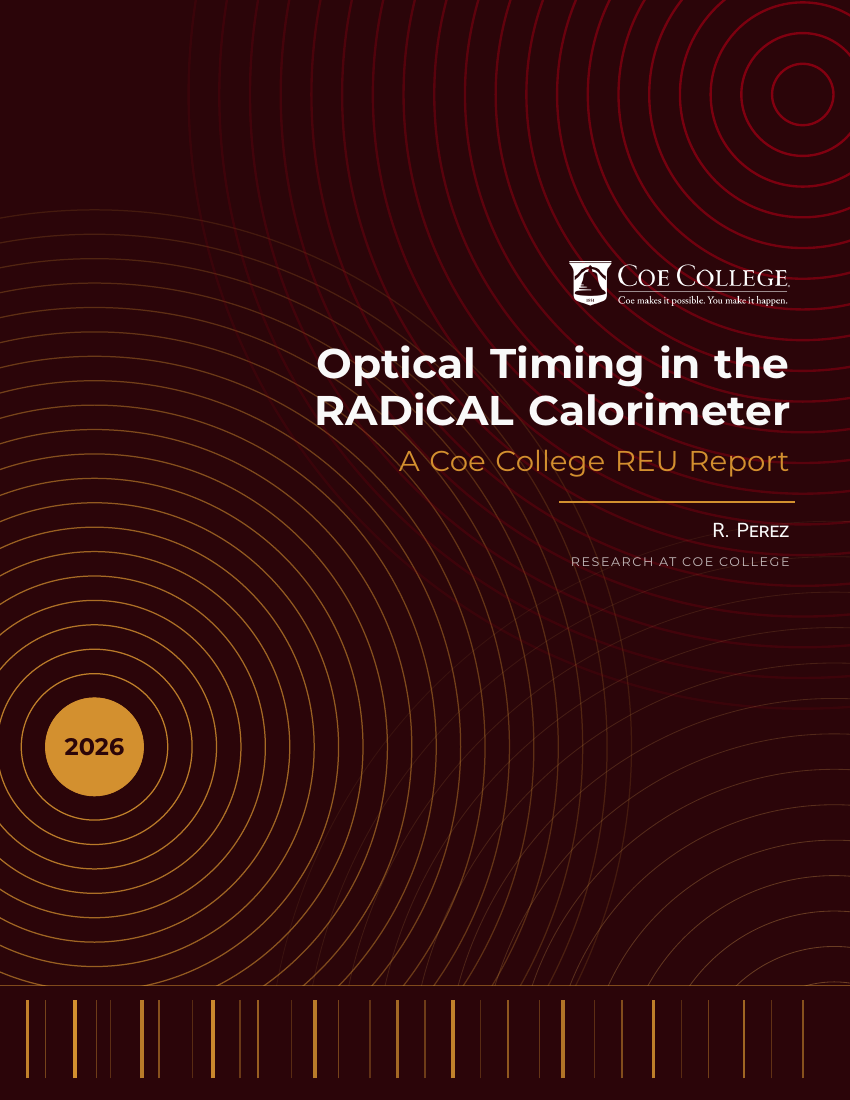
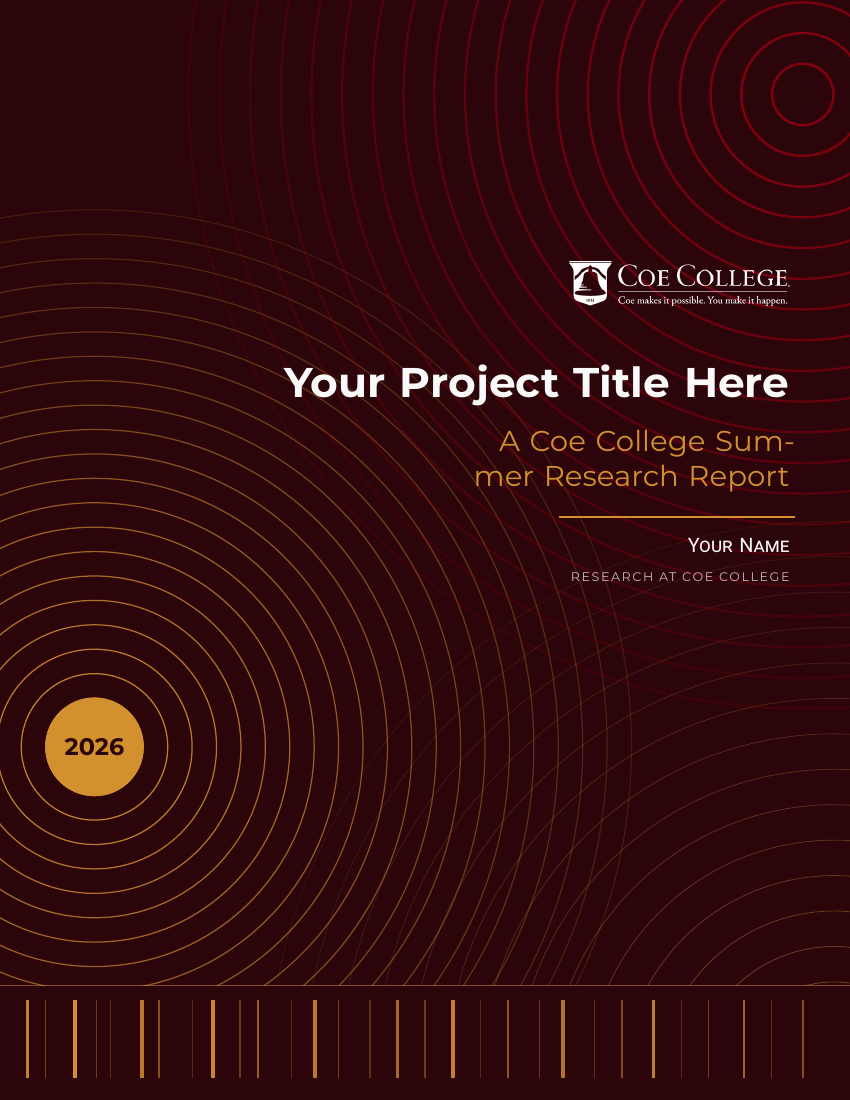
Replace tutorial body with a generic REU report skeleton
main.tex shipped with the upstream author's walkthrough about solving
homework exercises, complete with lorem ipsum and general-relativity
demo equations. A student starting a report had to delete all of it
first.

It is now a neutral skeleton: placeholder cover fields, the standard
report sections (Introduction, Background, Methods, Results, Discussion,
Conclusions, Acknowledgements), and short worked examples of \divider,
the results box and the keyresult box so the custom environments are
discoverable without reading the README.

Keeps the template reusable. Personal write-ups belong in their own
repository.

Changed region(s): [[0.3365, 0.3091, 0.9482, 0.5255]]

diff --git a/main.tex b/main.tex
@@ -1,144 +1,124 @@
 % Coe College summer REU report template.
 %
+% Edit this file. Leave coereu.cls alone unless you're changing the design.
+% See README.md for the full command reference.
+%
+% Build: latexmk -pdf main.tex
+%   or:  pdflatex -> biber -> pdflatex -> pdflatex
+% Compile with pdfLaTeX, NOT XeLaTeX.
+%
 % Based on "A soft template for homework solutions" by Lucas R. Ximenes
 % (Jimeens). Retained with attribution as that template's license asks.
-%
-% Build: pdflatex -> biber -> pdflatex -> pdflatex
-% (three passes minimum: TikZ remember-picture, titletoc, and biblatex)
 %%%%%%%%%%%%%%%%%%%%%%%%%%%%%%%%%%%%%%%%%%%%%%%%%%%%%%%%%%%%%%%%%
 
 \documentclass{coereu} % letterpaper, twoside, 11pt -- pass options here, e.g. [oneside]
 
+% Delete this line once bib.bib holds real references and you want a
+% References section. Until then it keeps an empty one from appearing.
+\coeprintbibfalse
+
 \begin{document}
 
+%%%%%%%%%%%%%%%%%%%%%%%%%%%%%%%%%%%%%%%%%%%%%%%%%%%%%%%%%%%%%%%%%
+% COVER -- title, subtitle, your name
+%%%%%%%%%%%%%%%%%%%%%%%%%%%%%%%%%%%%%%%%%%%%%%%%%%%%%%%%%%%%%%%%%
 \pretitle
-{Optical Timing in the RADiCAL Calorimeter} % ⟸ Main title
-{A Coe College REU Report}                  % ⟸ Subtitle
-{R. Perez}                                  % ⟸ Your name
+{Your Project Title Here}          % ⟸ Main title
+{A Coe College Summer Research Report} % ⟸ Subtitle
+{Your Name}                        % ⟸ Your name
 
-% Report metadata. All of these have defaults in the class -- override only
-% what you need.
-\renewcommand{\reportNumber}{1}
-\renewcommand{\reportKicker}{Coe College REU}
-\renewcommand{\coeProgram}{Research at Coe College}
+% Report metadata. All have defaults -- override only what you need.
+\renewcommand{\reportNumber}{1}                        % big chapter numeral
+\renewcommand{\reportKicker}{Coe College REU}          % spine label + header
+\renewcommand{\coeProgram}{Research at Coe College}    % cover + footer line
 
+%%%%%%%%%%%%%%%%%%%%%%%%%%%%%%%%%%%%%%%%%%%%%%%%%%%%%%%%%%%%%%%%%
+% BODY
+% \startcontents must stay before your first \chapter -- it feeds the
+% mini-summary box on the chapter page.
+%%%%%%%%%%%%%%%%%%%%%%%%%%%%%%%%%%%%%%%%%%%%%%%%%%%%%%%%%%%%%%%%%
 \makeatletter
     \startcontents[sections]
     \phantomsection
-    \chapter{Understanding the template}
+    \chapter{Summer Research Report}
 \makeatother
 
-    In this first part, I will dedicate myself to explaining how to use all the commands in this template. To start off, the entire \verb|coereu| class was initially based on the \verb|book| class in order to increase the compatibility of some commands, such as the inclusion of the \verb|\chapter{}|. 
+\section{Introduction}\label{sec:intro}
 
-    \divider
+State what problem you worked on and why it matters, in language a
+scientifically literate reader outside your subfield can follow. Say what
+the report covers, and close with a sentence or two mapping out the
+sections that follow.
 
-    For the document cover, the commands \verb|\author{}|, \verb|\title{}|, etc. are not needed so the command \verb|\pretitle{#1}{#2}{#3}| was created to include the title, subtitle and author's name respectively. In this command, the year has also been entered, but it is done automatically with the command \verb|\theyear|, so you don't have to worry about it.
+Use \verb|\divider| to separate passages within a section:
 
-    \divider
+\divider
 
-    The \verb|\divider| command creates a horizontal rule that can be used to visually separate specific content.
+Refer to other sections by name with \verb|\nameref|, like
+\nameref{sec:methods} --- not \verb|\ref|, which returns the wrong thing
+because sections here are deliberately unnumbered. Figures and equations
+\emph{are} numbered, so \verb|\ref| is correct for those.
 
-    \divider
+\section{Background}\label{sec:background}
 
-    The \verb|\section{}| command has a proprietary style that automatically generates concentric rings running off the left edge of the page, echoing the wavefront motif on the cover. Note that the section number is removed in the class configuration to maintain a cleaner appearance in the mini-summary. Speaking of the mini-summary, it has a fixed size so that the content recommended to be inside it is approximately 12 items. This means that the font size will decrease as more sections are added.
+The context a reader needs before your own work makes sense: the state of
+the field, the instrument or system you worked with, and the open question
+your project addresses.
 
-    \divider
+Cite sources with \verb|\cite{key}| after adding entries to
+\verb|bib.bib|, or with \verb|\textcite{key}| when the author is part of
+your sentence.
 
-    This template was initially develop to make solutions of exercises, therefore the first paragraph was thought to write the exercise enunciate, in this way, I didn't modify the text formatting in this part. However, I decided do develop a personalized environment to write the respective solution of the exercise. These environment has two forms: an unbreakable and a breakable form. In the first Section, I will write an example for the unbreakable form, and in the second Section an example for the breakable form.
+\section{Methods}\label{sec:methods}
 
-    \section{Unbreakable Form}\label{ex 1}
-    \lipsum[1]
-    
-    
-    \begin{results}[This is a unbreakable example]
-        \lipsum[1] %\therefs\cite{wald1984GeneralRelativity}
-    \end{results}
-    
-    \section{Breakable Form}\label{ex 2}
-    \lipsum[1]
-    \begin{results}[This is a breakable example]
-        \lipsum[1-13]
-    \end{results}
-    
-    \section{Using the references}
+What you actually did. Be concrete about tools, techniques, and choices ---
+including the ones that did not work. A short, honest account of what broke
+and how you diagnosed it is usually more valuable to the reader than a
+tidy narrative in which everything worked the first time.
 
-    To use references, we have two methods for citing a book, article, etc. The first method is written as \verb|\therefs\cite{#key}| where \verb|#key| represents the citation key of the bibliographic reference. For example, \verb|\therefs\cite{WaldGR}| produces:
-    \therefs\cite{WaldGR,Choquet-BruhatGR}
-    
-    This method is recommended for use when the citation is not a direct one, i.e., when the paragraph or text is based on the reference, but not directly using it. The second method is recommended to use when the citation are directly used to write the text or explain some argument. This method is really simple, you just need to use \verb|\textcite{#key}|, for example:
-    "The book written by \textcite{WaldGR} and the books written by \textcite{Choquet-BruhatGR, Choquet-BruhatGR2} are the best books to study General Relativity"
-    
-    \section{Equations style}
-        In general, the \verb|\begin{equation}| environments are simple, just the label color changes. An example to show:
-            \begin{equation}\label{eq: 1}
-                \mathcal{R}^{\alpha\beta} - \dfrac{1}{2}g^{\alpha\beta}\mathcal{R} =
-                8\pi GT^{\alpha\beta}
-            \end{equation}
+To include a figure:
 
-        In addition, the environment \verb|\begin{align}| or \verb|\begin{align*}| has vertical lines at each line break and to do this, there is a specific way:
-            \begin{align}
-                \dfrac{1}{\sqrt{-g}}\partial_{\uprho}(\sqrt{-g}) & \eq -\dfrac{1}{2(-g)}\partial_{\uprho}(g) \label{eq: 2} \\
-                & \eq \dfrac{1}{2g}\dfrac{\delta(g)}{\delta(g_{\upmu\upnu})}\partial_{\uprho}(g_{\upmu\upnu}) \nonumber \\
-                & \eq \dfrac{1}{2g}gg^{\upmu\upnu}\partial_{\uprho}(g_{\upmu\upnu}) \nonumber \\
-                & \eq \dfrac{1}{2}g^{\upmu\upnu}\partial_{\uprho}(g_{\upmu\upnu}) = \Gamma^{\alpha}_{\uprho\alpha}\ \label{eq:3}
-            \end{align}
+\begin{verbatim}
+\begin{figure}[H]
+    \centering
+    \includegraphics[width=0.8\textwidth]{yourfigure.png}
+    \caption{What the reader should notice.}
+    \label{fig:example}
+\end{figure}
+\end{verbatim}
 
-        Note that for line breaks, I use the command \verb|\\| and after that, to align, \verb|&| along with a custom command \verb|\eq|. Also, if you don't want to align a specific single line, use the command \verb|\noeq| instead of \verb|\eq| to make the line continue to the next equation, see the following example usingo \verb|\begin{align*}|:
-            \begin{align*}
-                \Gamma^{\uprho}_{\upmu\upnu} & \eq \dfrac{1}{2}g^{\uprho\sigma}\left(
-                    \partial_{\upmu}g_{\sigma\upnu} + 
-                    \partial_{\upnu}g_{\sigma\upmu} -
-                    \partial_{\sigma}g_{\upmu\upnu}
-                \right) \\
-                & \eq \dfrac{1}{2}(\eta^{\uprho\sigma} + h^{\uprho\sigma})[
-                    \partial_{\upmu}(\eta_{\sigma\upnu} + h_{\sigma\upnu}) +  \\
-                & \noeq + \partial_{\upnu}(\eta_{\sigma\upmu} + h_{\sigma\upmu}) -
-                    \partial_{\sigma}(\eta_{\upmu\upnu} + h_{\upmu\upnu}) ]  \\
-                & \eq \dfrac{1}{2}(\eta^{\uprho\sigma} + h^{\uprho\sigma})\left(
-                    \partial_{\upmu}h_{\sigma\upnu} + 
-                    \partial_{\upnu}h_{\sigma\upmu} - 
-                    \partial_{\sigma}h_{\upmu\upnu}
-                \right)  \\
-                & \eq \dfrac{1}{2}\eta^{\uprho\sigma} \left(
-                    \partial_{\upmu}h_{\sigma\upnu} + 
-                    \partial_{\upnu}h_{\sigma\upmu} - 
-                    \partial_{\sigma}h_{\upmu\upnu}
-                \right) + \mathcal{O}(h) 
-            \end{align*}
-    
-    \section{Additional Boxes}
+\section{Results}\label{sec:results}
 
-        I created a new environment which make a adaptable size box around the equation. To use this, you just need to write \verb|\begin{keyresult}| to start the environment. Use this like the equation environment. Below I show an example.
-        \begin{keyresult} \label{eq: 4}
-            \mathcal{R}^{\alpha\beta} - \dfrac{1}{2}g^{\alpha\beta}\mathcal{R} =
-                8\pi GT^{\alpha\beta}
-        \end{keyresult}
+What you found. Use the \verb|results| environment to set off a finding you
+want the reader to stop at:
 
-    
+\begin{results}[optional label]
+    A highlighted passage. The box breaks across pages on its own, so it
+    can hold as much as you need.
+\end{results}
 
-    \section{Final instructions}
+For a single equation that matters more than the rest, use
+\verb|keyresult|, which boxes it:
 
-    Report metadata is set near the top of \verb|main.tex| with \verb|\renewcommand|: \verb|\reportNumber| is the large chapter numeral, \verb|\reportKicker| is the rotated spine label and running head, and \verb|\coeProgram| is the program line on the cover and in the footer. All three have defaults in the class, so you only override what you need.
+\begin{keyresult}\label{eq:example}
+    E = mc^{2}
+\end{keyresult}
 
-    \divider
+\section{Discussion}\label{sec:discussion}
 
-    The Coe palette lives in \verb|coereu.cls| under \Acomment{Color settings}. Crimson is \verb|#880011| and gold is \verb|#d3902f|, both taken from Coe's own stylesheet. Note these are \emph{web} values --- Coe publishes no Pantone or CMYK build, so confirm with the marketing office before sending anything to a printer.
+What the results mean, how far they can be trusted, and what limits them.
+Say plainly where the uncertainty lies --- a stated limitation reads as
+competence, not weakness.
 
-    \divider
+\section{Conclusions and Future Work}\label{sec:conclusions}
 
-    If you like to create \verb|\newcommand| in your \verb|.tex| files, write them in the last lines of \verb|coereu.cls|, to ensure that all packages are read. To add new packages in \verb|coereu.cls| you want to write \verb|\RequirePackage[]{}| instead \verb|\usepackage[]{}|.
-    
-    \divider
+Summarise briefly, then say what comes next: the questions still open and
+what you would do with more time.
 
-    To finish, I'll comment on some extra commands that I implemented in the template to make things a little prettier.
-        \begin{itemize}
-            \item Vectors \verb|\vec{}| are always written using \textbf{bold} notation. The reason for this is that when the math gets more complicated, the notation with the arrow ends up making things more "messy", so to speak;
-            \item A unitary matrix is represented by the command \verb|\boldone| and looks like that: $\boldone$;
-            \item To comment some part of the text, I created the command \verb|\Acomment{}| to write the text \Acomment{Like that}.
-        \end{itemize}
-    \divider
+\section{Acknowledgements}\label{sec:ack}
 
-    {\footnotesize\noindent Design based on \emph{A soft template for homework
-    solutions} by L. R. Ximenes (Jimeens), used and modified with attribution.
-    Rebranded for the Coe College summer REU.\par}
+Thank your advisor, collaborators, and anyone whose work you built on.
+Include the funding acknowledgement here --- confirm the exact grant
+number with your advisor rather than copying it from another document.
+
 \end{document}
